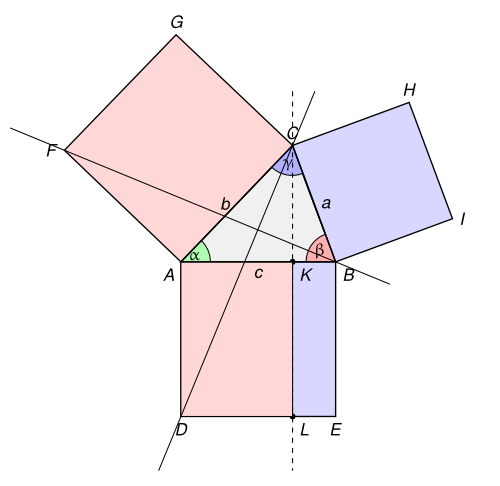
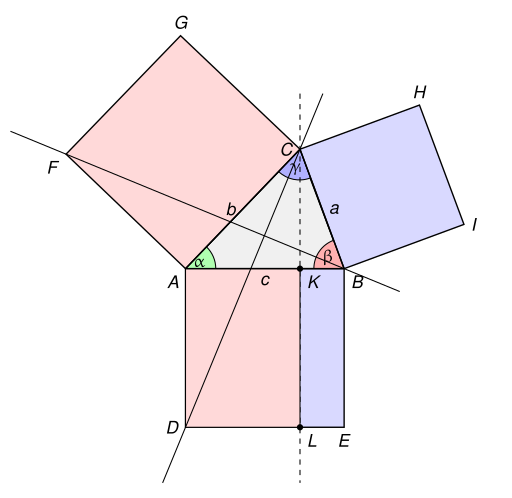
Update triangle

diff --git a/tikz/triangle-pappus/triangle-pappus.tex b/tikz/triangle-pappus/triangle-pappus.tex
@@ -16,12 +16,8 @@
     \tkzDefPoint(3.2,0){B}
     \tkzDefPoint(2.3,2.4){C}
 
-    \tkzLabelPoints[below left,font=\sansmath\sffamily](A)
-    \tkzLabelPoints[below right,font=\sansmath\sffamily](B)
-    \tkzLabelPoints[above,font=\sansmath\sffamily](C)
-
     % Draw polygon
-    \tkzDrawPolygon[thick,fill=gray!10](A,B,C)
+    \tkzDrawPolygon[thick,fill=gray!10,rounded corners=0.1mm](A,B,C)
 
     % Mark angles
     \tkzMarkAngle[arc=l,size=0.6cm,fill=green!30](B,A,C)
@@ -41,7 +37,7 @@
     \tkzInterLC(C,G)(A,C) \tkzGetPoints{C}{C}
 
     \tkzLabelPoints[above,font=\sansmath\sffamily](G)
-    \tkzLabelPoints[left,font=\sansmath\sffamily](F)
+    \tkzLabelPoints[below left,font=\sansmath\sffamily](F)
     \tkzDrawPolygon[thick,fill=red!15!white](A,C,G,F)
 
     % right blue square
@@ -62,14 +58,14 @@
     \tkzDefLine[perpendicular=through B,K=-1](A,B)\tkzGetPoint{X}
     \tkzInterLC(B,X)(B,A) \tkzGetPoints{notNeeded}{E}
 
-    \tkzLabelPoints[below,font=\sansmath\sffamily](D,E)
+    \tkzLabelPoints[below,font=\sansmath\sffamily](E)
+    \tkzLabelPoints[left,font=\sansmath\sffamily](D)
     \tkzDrawPolygon[thick,fill=blue!15!white](B,A,D,E)
 
     % squares below
     \tkzDefLine[perpendicular=through C,K=-1](A,B)\tkzGetPoint{Xtemp}
     \tkzInterLL(C,Xtemp)(D,E)\tkzGetPoint{L}
     \tkzInterLL(C,Xtemp)(A,B)\tkzGetPoint{K}
-    \tkzDrawPoints[size=2,fill=black](L,K)
     \tkzLabelPoints[below right,font=\sansmath\sffamily](L,K)
 
     \tkzDrawLines[dashed](C,L)
@@ -84,7 +80,12 @@
     \tkzDrawLines(C,D B,F)
 
     % Draw polygons
-    \tkzDrawPolygon[thick](A,B,C)
+    \tkzDrawPolygon[thick, rounded corners=0.1mm](A,B,C)
+
+    \tkzLabelPoints[below left,font=\sansmath\sffamily](A)
+    \tkzLabelPoints[below right,font=\sansmath\sffamily](B)
+    \tkzLabelPoints[left,font=\sansmath\sffamily](C)
+    \tkzDrawPoints[size=2,fill=black](L,K)
 \end{tikzpicture}
 \end{preview}
 \end{document}
